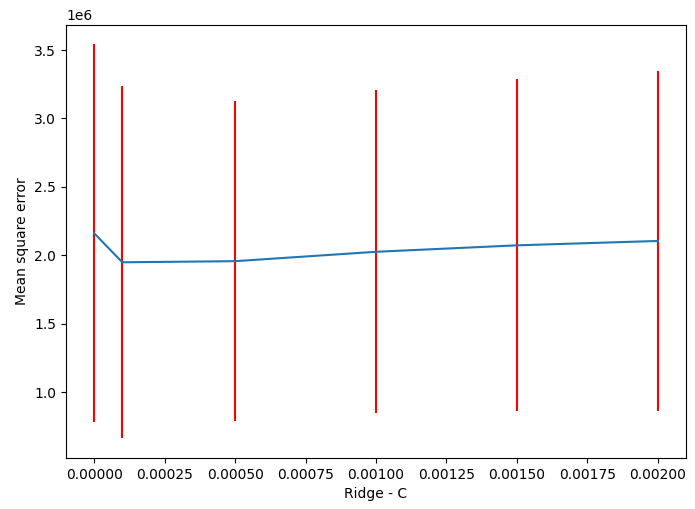
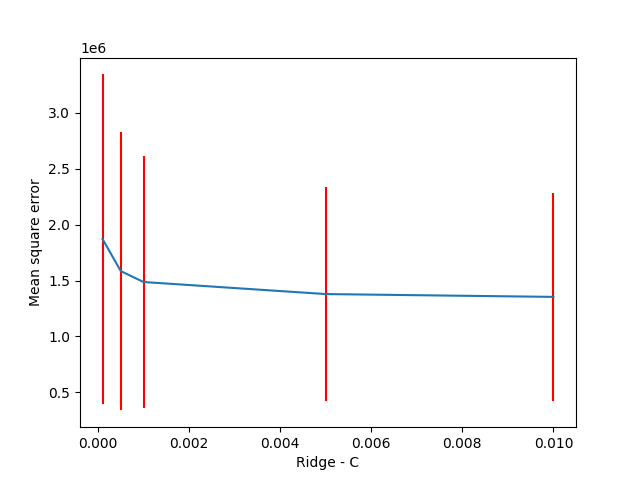
made graphs for models against data and got metric values for models

diff --git a/ModelTesting.py b/ModelTesting.py
@@ -4,11 +4,11 @@ import matplotlib.pyplot as plt
 
 from sklearn.linear_model import LinearRegression, Lasso, Ridge
 from sklearn.dummy import DummyRegressor
-from sklearn.metrics import mean_squared_error
+from sklearn.metrics import mean_squared_error, r2_score, mean_absolute_error
 from sklearn.model_selection import train_test_split, KFold
 from sklearn.preprocessing import PolynomialFeatures
 
-data = open("DublinDataset.csv", "r")
+data = open("DublinDatasetObj2.csv", "r")
 next(data)
 
 x = []
@@ -17,7 +17,9 @@ y = []
 for line in data:
     if line != "\n":
         splt = line.strip().split(",")
-        x.append([int(splt[1]), int(splt[2]), int(splt[3]), int(splt[4])])
+        x.append([int(splt[1]), int(splt[2]), int(splt[3]), int(splt[4]), int(splt[5]), int(splt[6]), int(splt[7]), int(splt[8]), 
+        int(splt[9]), int(splt[10]), int(splt[11]), int(splt[12]), int(splt[13]), int(splt[14]), int(splt[15]), int(splt[16]), 
+        int(splt[17]), int(splt[18]), int(splt[19]), int(splt[20]), int(splt[21]), int(splt[22]), int(splt[23]), int(splt[24])])
         y.append(int(splt[0]))
 
 x_train, x_test, y_train, y_test = train_test_split(x, y, test_size=0.33, random_state=0)
@@ -35,13 +37,21 @@ modelBaseline = DummyRegressor(strategy="mean")
 modelBaseline.fit(x_train, y_train)
 
 y_pred = modelLinear.predict(x_train)
-print("Linear Regresion MSE = ", mean_squared_error(y_train, y_pred, squared=False))
+#print("Linear Regresion MSE = ", mean_squared_error(y_test, y_pred, squared=False))
+print("Linear Regresion MAE = ", mean_absolute_error(y_train, y_pred))
+#print("Linear Regresion R2 = ", r2_score(y_train, y_pred))
 
 y_pred = modelLasso.predict(x_train)
-print("Lasso MSE = ", mean_squared_error(y_train, y_pred, squared=False))
+#print("Lasso MSE = ", mean_squared_error(y_test, y_pred, squared=False))
+print("Lasso MAE = ", mean_absolute_error(y_train, y_pred))
+#print("Lasso R2 = ", r2_score(y_train, y_pred))
 
 y_pred = modelRidge.predict(x_train)
-print("Ridge MSE = ", mean_squared_error(y_train, y_pred, squared=False))
+#print("Ridge MSE = ", mean_squared_error(y_test, y_pred, squared=False))
+print("Ridge MAE = ", mean_absolute_error(y_train, y_pred))
+#print("Ridge R2 = ", r2_score(y_train, y_pred))
 
 y_pred = modelBaseline.predict(x_train)
-print("Baseline MSE = ", mean_squared_error(y_train, y_pred, squared=False))
+#print("Baseline MSE = ", mean_squared_error(y_test, y_pred, squared=False))
+print("Baseline MAE = ", mean_absolute_error(y_train, y_pred))
+#print("Baseline R2 = ", r2_score(y_train, y_pred))

diff --git a/DataGraphModel.py b/DataGraphModel.py
@@ -1,0 +1,78 @@
+import matplotlib.pyplot as plt
+import pandas as pd
+from sklearn.linear_model import LinearRegression, Lasso, Ridge
+from sklearn.dummy import DummyRegressor
+from sklearn.model_selection import train_test_split
+
+import csv
+
+x = []
+y = []
+bedroomCountObj2 = []
+bathroomCountObj2 = []
+
+data = open("DublinDatasetObj2.csv", "r")
+next(data)
+
+for line in data:
+    if line != "\n":
+        # getting features for model
+        splt = line.strip().split(",")
+        bedroomCountObj2.append(int(splt[1]))
+        bathroomCountObj2.append(int(splt[2]))
+        x.append([int(splt[1]), int(splt[2]), int(splt[3]), int(splt[4]), int(splt[5]), int(splt[6]), int(splt[7]), int(splt[8]), 
+        int(splt[9]), int(splt[10]), int(splt[11]), int(splt[12]), int(splt[13]), int(splt[14]), int(splt[15]), int(splt[16]), 
+        int(splt[17]), int(splt[18]), int(splt[19]), int(splt[20]), int(splt[21]), int(splt[22]), int(splt[23]), int(splt[24])])
+        y.append(int(splt[0]))
+
+ 
+# opening the CSV file
+with open('dublinDataset.csv', mode ='r')as file:
+   
+    # reading the CSV file
+    csvFile = csv.reader(file)
+    prices = []
+    locations = []
+    bedroomCount = []
+    bathroomCount = []
+    
+    # displaying the contents of the CSV file
+    for lines in csvFile:
+        if len(lines) > 0:
+            if lines[0] == 'price':continue
+            prices.append(int(lines[0]))
+            locations.append(lines[1])
+            bedroomCount.append(lines[2])
+            bathroomCount.append(lines[3])
+
+    #x_train, x_test, y_train, y_test = train_test_split(x, y, test_size=0.33, random_state=0)
+
+    model = LinearRegression()
+    model.fit(x, y)
+
+    #model = Lasso(alpha= 1 /(2 * 0.001))
+    #model.fit(x, y)
+
+    #model = Ridge(alpha= 1 /(2 * 0.0001))
+    #model.fit(x, y)
+
+    #model = DummyRegressor(strategy="mean")
+    #model.fit(x, y)
+
+    y_pred = model.predict(x)
+
+    print(len(bedroomCount))
+    print(len(y_pred))
+
+    plt.scatter(bedroomCount, prices, color="blue")
+    plt.scatter(bedroomCountObj2, y_pred, color="red", s=15)
+    plt.grid()
+    plt.xlabel('Number of Bedrooms')
+    plt.ylabel('Price in euros per month')
+    plt.show()
+    plt.scatter(bathroomCount, prices)
+    plt.scatter(bedroomCountObj2, y_pred, color="red", s=15)
+    plt.grid()
+    plt.xlabel('Number of Bathrooms')
+    plt.ylabel('Price in euros per month')
+    plt.show()

diff --git a/Modelling.py b/Modelling.py
@@ -7,7 +7,7 @@ from sklearn.metrics import mean_squared_error
 from sklearn.model_selection import train_test_split, KFold
 from sklearn.preprocessing import PolynomialFeatures
 
-data = open("DublinDataset.csv", "r")
+data = open("DublinDatasetObj2.csv", "r")
 next(data)
 
 x = []
@@ -16,7 +16,9 @@ y = []
 for line in data:
     if line != "\n":
         splt = line.strip().split(",")
-        x.append([int(splt[1]), int(splt[2]), int(splt[3]), int(splt[4])])
+        x.append([int(splt[1]), int(splt[2]), int(splt[3]), int(splt[4]), int(splt[5]), int(splt[6]), int(splt[7]), int(splt[8]), 
+        int(splt[9]), int(splt[10]), int(splt[11]), int(splt[12]), int(splt[13]), int(splt[14]), int(splt[15]), int(splt[16]), 
+        int(splt[17]), int(splt[18]), int(splt[19]), int(splt[20]), int(splt[21]), int(splt[22]), int(splt[23]), int(splt[24])])
         y.append(int(splt[0]))
 
 x = np.array(x)
@@ -24,15 +26,15 @@ y = np.array(y)
 
 mean_error = []
 std_error = []
-c_range = [0.0001, 0.0005, 0.001, 0.005, 0.01]
-#c_range = [0.0000001, 0.0001, 0.0005, 0.001, 0.0015, 0.002]
+#c_range = [0.0001, 0.0005, 0.001, 0.005, 0.01]
+c_range = [0.0000001, 0.0001, 0.0005, 0.001, 0.0015, 0.002]
 #c_range = [10, 100, 500, 1000, 5000, 10000]
 
 for c in c_range:
     temp = []
     #model = LinearRegression()
-    model = Lasso(alpha= 1 / (2 * c))
-    #model = Ridge(alpha= 1 / (2 * c))
+    #model = Lasso(alpha= 1 / (2 * c))
+    model = Ridge(alpha= 1 / (2 * c))
     kf = KFold(n_splits=5)
     for train, test in kf.split(x):
         model.fit(x[train], y[train])
@@ -42,6 +44,6 @@ for c in c_range:
     std_error.append(np.array(temp).std())
 
 plt.errorbar(c_range, mean_error, yerr=std_error, ecolor="red")
-plt.xlabel("Lasso - C")
+plt.xlabel("Ridge - C")
 plt.ylabel("Mean square error")
 plt.show()
